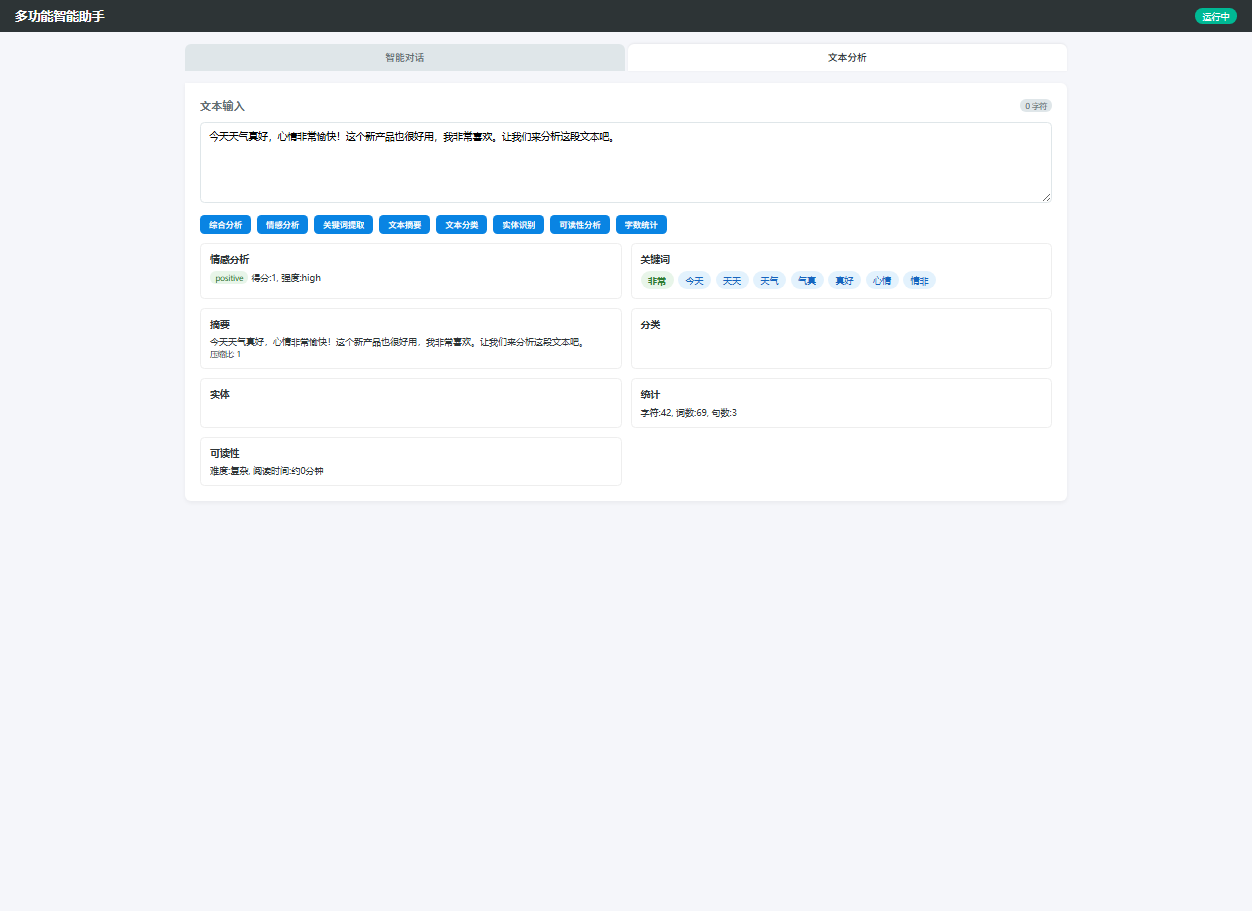
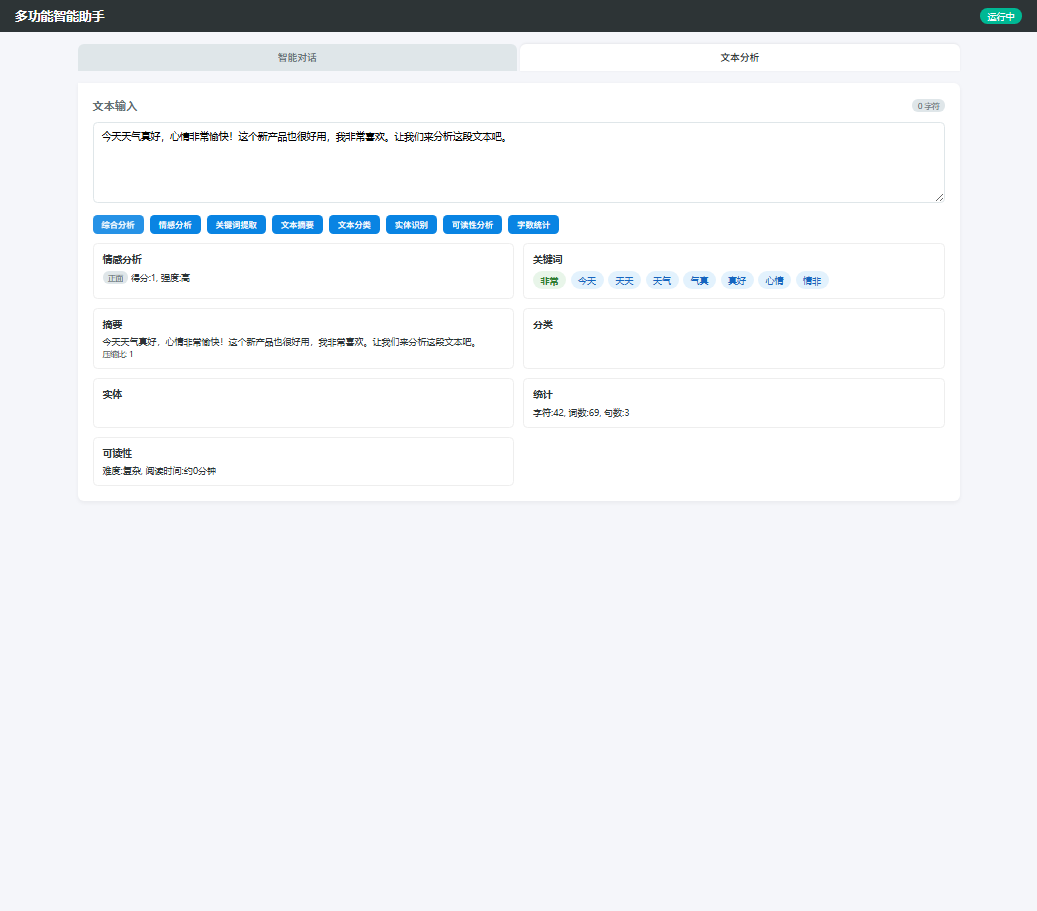
feat

diff --git a/services/nlp_service.py b/services/nlp_service.py
@@ -79,13 +79,13 @@ class NLPService:
 
     # Chinese entity patterns
     ENTITY_PATTERNS = [
-        ("url", re.compile(r'https?://[^\s]+', re.IGNORECASE)),
-        ("email", re.compile(r'[\w.+-]+@[\w-]+\.[\w.-]+')),
-        ("phone", re.compile(r'1[3-9]\d{9}')),
-        ("date", re.compile(r'\d{4}[-/年]\d{1,2}[-/月]\d{1,2}[日号]?')),
-        ("money", re.compile(r'(\$|¥|€|£)\d+([,.]\d+)?|(\d+([,.]\d+)?)\s*(元|美元|欧元|英镑|港币|日元)')),
-        ("company", re.compile(r'(北京|上海|深圳|广州|杭州|成都|武汉|南京|天津|重庆)([^\s]{2,20})?(公司|集团|有限|科技|实业|股份)')),
-        ("person_title", re.compile(r'(\w{2,4})(先生|女士|教授|博士|工程师|经理|总监|总裁)')),
+        ("网址", re.compile(r'https?://[^\s]+', re.IGNORECASE)),
+        ("邮箱", re.compile(r'[\w.+-]+@[\w-]+\.[\w.-]+')),
+        ("电话", re.compile(r'1[3-9]\d{9}')),
+        ("日期", re.compile(r'\d{4}[-/年]\d{1,2}[-/月]\d{1,2}[日号]?')),
+        ("金额", re.compile(r'(\$|¥|€|£)\d+([,.]\d+)?|(\d+([,.]\d+)?)\s*(元|美元|欧元|英镑|港币|日元)')),
+        ("公司", re.compile(r'(北京|上海|深圳|广州|杭州|成都|武汉|南京|天津|重庆)([^\s]{2,20})?(公司|集团|有限|科技|实业|股份)')),
+        ("职务称谓", re.compile(r'(\w{2,4})(先生|女士|教授|博士|工程师|经理|总监|总裁)')),
     ]
 
     def __init__(self, language: str = "chinese"):
@@ -105,19 +105,19 @@ class NLPService:
         score = (pos_count - neg_count) / total
 
         # Also calculate text-level intensity
-        intensity = "low"
+        intensity = "低"
         abs_score = abs(score)
         if abs_score > 0.6:
-            intensity = "high"
+            intensity = "高"
         elif abs_score > 0.2:
-            intensity = "medium"
+            intensity = "中"
 
         if score > 0.15:
-            label = "positive"
+            label = "正面"
         elif score < -0.15:
-            label = "negative"
+            label = "负面"
         else:
-            label = "neutral"
+            label = "中性"
 
         # Highlight positive/negative tokens found
         pos_found = [t for t in tokens if t in self.POSITIVE_WORDS][:10]
@@ -149,7 +149,7 @@ class NLPService:
 
         # Frequency-based keywords with normalized score
         max_f = max(freq.values()) if freq else 1
-        keywords_freq = [{"word": w, "count": c, "score": round(c / max_f, 4), "method": "frequency"}
+        keywords_freq = [{"word": w, "count": c, "score": round(c / max_f, 4), "method": "词频"}
                          for w, c in freq.most_common(top_k)]
 
         # TF-IDF keywords for multi-sentence text
@@ -307,7 +307,7 @@ class NLPService:
         # Also extract hashtag-like patterns (common in Chinese social media)
         hashtags = re.findall(r'#([^#\s]+)', text)
         if hashtags:
-            entities["hashtag"] = list(set(hashtags))
+            entities["话题"] = list(set(hashtags))
 
         total_found = sum(len(v) for v in entities.values())
 
